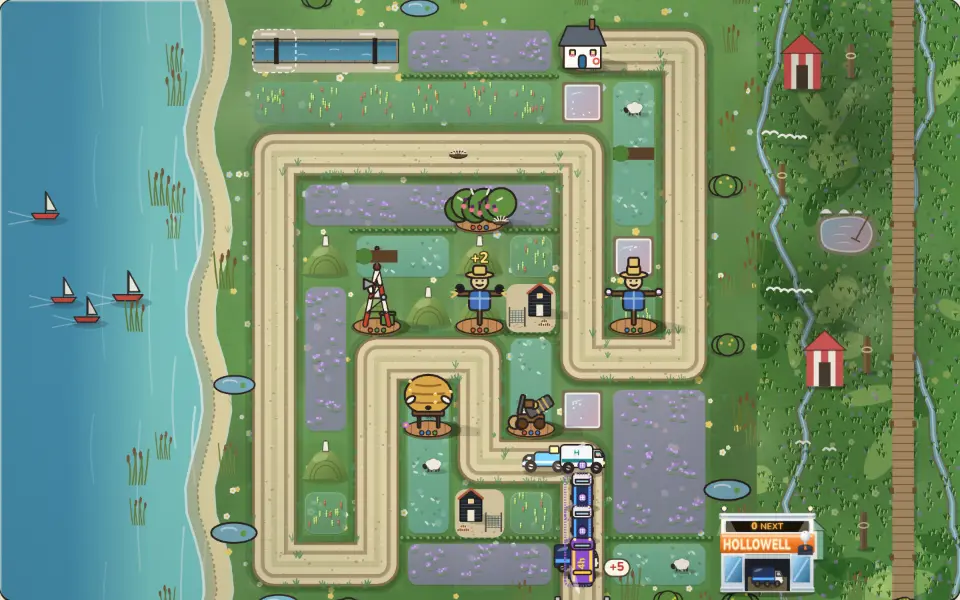
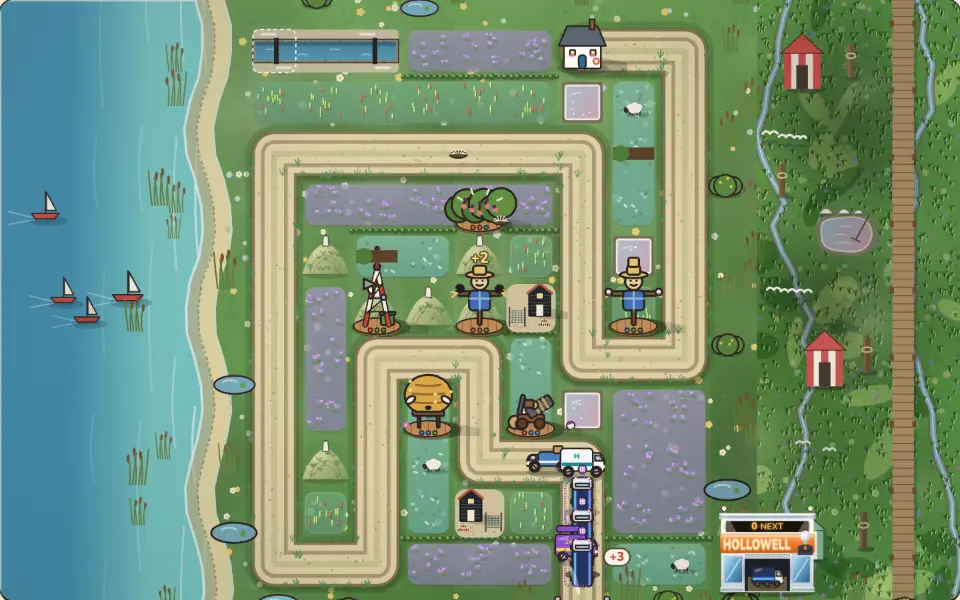
Hedgerow 399 slice 7: each act's high ground its own mound (Highmoor's granite tor, Saltmarsh's marram dune, Rivermead's willow bank, Oakvale's bracken, Shingle Bay's pebble ridge, The Rift's spoil heap, The Ballot's daisy barrow, The Merger's sprinklered berm, Kingsmarket's motte path), the trig pi
Claude-Session: https://claude.ai/code/session_01SimvMN1RHBGCWN7Eo7MzhN

diff --git a/games/hedgerow/src/fieldkitart.ts b/games/hedgerow/src/fieldkitart.ts
@@ -3,7 +3,7 @@
 // watercress, its mill house on the leat and willow-ringed ponds. Brindle's farm kit stays in theme.ts/render.ts.
 
 import { castShadow } from "./sprites";
-import type { BarnLook, BedLook, WaterLook } from "./fieldkit";
+import type { BarnLook, BedLook, KnollDress, WaterLook } from "./fieldkit";
 
 type C = CanvasRenderingContext2D;
 
@@ -1373,6 +1373,124 @@ export function drawKitBarn(ctx: C, x: number, y: number, w: number, look: BarnL
       const a = t * 0.8 + (k / 8) * Math.PI * 2;
       line(ctx, [wx, wy], [wx + Math.cos(a) * wr, wy + Math.sin(a) * wr]);
     }
+  }
+  ctx.restore();
+}
+
+/**
+ * What lies on an act's high ground (drawn clipped to the mound, under the trig pillar): granite on Highmoor's tor,
+ * marram on Saltmarsh's dune, a pollard willow on Rivermead's bank, bracken in Oakvale, a pebble ridge at Shingle
+ * Bay, The Rift's spoil heap, daisies on The Ballot's barrow, a sprinkler on The Merger's berm, a worn path up
+ * Kingsmarket's motte.
+ */
+export function paintKnollDress(ctx: C, x: number, y: number, s: number, dress: KnollDress, seed: number): void {
+  const r01 = rng(seed);
+  const cx = x + s / 2;
+  const on = (): [number, number] => {
+    const t = r01();
+    const u = 0.3 + r01() * 0.5;
+    return [x + s * (0.18 + t * 0.64), y + s * u];
+  };
+  ctx.save();
+  ctx.lineCap = "round";
+  switch (dress) {
+    case "rocks":
+      for (let k = 0; k < 4; k++) {
+        const [px, py] = on();
+        const g = 120 + Math.floor(r01() * 40);
+        ctx.fillStyle = `rgb(${g},${g - 2},${g - 6})`;
+        ctx.strokeStyle = "rgba(60,58,54,0.8)";
+        ctx.lineWidth = Math.max(0.75, s * 0.01);
+        ctx.beginPath();
+        ctx.roundRect(px - s * 0.06, py - s * 0.035, s * 0.12, s * 0.07, s * 0.02);
+        ctx.fill();
+        ctx.stroke();
+      }
+      break;
+    case "marram":
+    case "bracken":
+      for (let k = 0; k < (dress === "marram" ? 14 : 10); k++) {
+        const [px, py] = on();
+        ctx.strokeStyle = dress === "marram" ? "rgba(96,140,70,0.97)" : k % 2 ? "rgba(176,110,50,0.95)" : "rgba(96,140,60,0.95)";
+        ctx.lineWidth = Math.max(1, s * 0.016);
+        for (const dx of [-0.03, 0, 0.03]) {
+          ctx.beginPath();
+          ctx.moveTo(px, py);
+          ctx.quadraticCurveTo(px + s * dx, py - s * 0.04, px + s * dx * 1.8, py - s * 0.07);
+          ctx.stroke();
+        }
+      }
+      break;
+    case "willow": {
+      const tx = cx + s * 0.12, ty = y + s * 0.46;
+      ctx.fillStyle = "#6b5236";
+      ctx.fillRect(tx - s * 0.025, ty - s * 0.1, s * 0.05, s * 0.12);
+      ctx.strokeStyle = "rgba(122,170,80,0.95)";
+      ctx.lineWidth = Math.max(1, s * 0.03);
+      for (let k = 0; k < 7; k++) {
+        const fx = tx + (k - 3) * s * 0.035;
+        ctx.beginPath();
+        ctx.moveTo(tx, ty - s * 0.1);
+        ctx.quadraticCurveTo(fx, ty - s * 0.16, fx, ty);
+        ctx.stroke();
+      }
+      break;
+    }
+    case "pebbles":
+    case "spoil":
+      for (let k = 0; k < 18; k++) {
+        const [px, py] = on();
+        const g = dress === "pebbles" ? 150 + Math.floor(r01() * 70) : 90 + Math.floor(r01() * 40);
+        ctx.fillStyle = dress === "pebbles" ? `rgb(${g},${g - 4},${g - 12})` : `rgb(${g + 10},${g},${g - 14})`;
+        ctx.beginPath();
+        ctx.ellipse(px, py, s * 0.025, s * 0.017, r01() * 3, 0, Math.PI * 2);
+        ctx.fill();
+      }
+      if (dress === "spoil") {
+        ctx.fillStyle = "rgba(200,60,40,0.9)";
+        ctx.fillRect(cx - s * 0.2, y + s * 0.62, s * 0.06, s * 0.015);
+      }
+      break;
+    case "daisies":
+      for (let k = 0; k < 10; k++) {
+        const [px, py] = on();
+        ctx.fillStyle = "rgba(255,255,250,0.97)";
+        ctx.beginPath();
+        ctx.arc(px, py, s * 0.016, 0, Math.PI * 2);
+        ctx.fill();
+        ctx.fillStyle = "rgba(240,196,60,0.97)";
+        ctx.beginPath();
+        ctx.arc(px, py, s * 0.007, 0, Math.PI * 2);
+        ctx.fill();
+      }
+      break;
+    case "sprinkler": {
+      // Mown stripes across the berm and a sprinkler's arc of spray.
+      ctx.fillStyle = "rgba(200,240,160,0.25)";
+      for (let k = 0; k < 4; k++) ctx.fillRect(x, y + s * (0.3 + k * 0.14), s, s * 0.07);
+      const sx = cx - s * 0.18, sy = y + s * 0.62;
+      ctx.fillStyle = "#3a3e42";
+      ctx.fillRect(sx - s * 0.01, sy - s * 0.04, s * 0.02, s * 0.04);
+      ctx.fillStyle = "rgba(220,240,252,0.85)";
+      for (let k = 0; k < 8; k++) {
+        const a = -Math.PI * (0.15 + k * 0.09);
+        ctx.beginPath();
+        ctx.arc(sx + Math.cos(a) * s * 0.1, sy - s * 0.04 + Math.sin(a) * s * 0.07, s * 0.01, 0, Math.PI * 2);
+        ctx.fill();
+      }
+      break;
+    }
+    case "path":
+      // A worn path zig-zagging up to the top.
+      ctx.strokeStyle = "rgba(220,196,140,0.9)";
+      ctx.lineWidth = Math.max(1.5, s * 0.03);
+      ctx.beginPath();
+      ctx.moveTo(x + s * 0.3, y + s * 0.84);
+      ctx.lineTo(x + s * 0.62, y + s * 0.62);
+      ctx.lineTo(x + s * 0.4, y + s * 0.46);
+      ctx.lineTo(cx, y + s * 0.3);
+      ctx.stroke();
+      break;
   }
   ctx.restore();
 }

diff --git a/games/hedgerow/src/fieldkit.ts b/games/hedgerow/src/fieldkit.ts
@@ -52,6 +52,8 @@ export type BarnLook = "barn" | "netshed" | "millhouse" | "fold" | "timberbarn" 
 /** A water plot: a round farm pond, a salt pan, a willow-ringed pond. */
 export type WaterLook = "pond" | "saltpan" | "willowpond" | "peatpool" | "lilypool" | "rockpool" | "gravelpit" | "duckpond" | "lagoon" | "basin";
 
+export type KnollDress = "rocks" | "marram" | "willow" | "bracken" | "pebbles" | "spoil" | "daisies" | "sprinkler" | "path";
+
 export interface FieldKit {
   name: string;
   /** The three looks the fields take turns with (plotlook.ts keeps neighbours apart). */
@@ -60,23 +62,25 @@ export interface FieldKit {
   puddle?: BedLook;
   barn: BarnLook;
   water: WaterLook;
+  /** High ground: the mound's colours (top, foot, contour) and what grows or lies on it; the trig pillar stays. */
+  knoll: { top: string; foot: string; contour: string; dress?: KnollDress };
   /** The farmhouse at the lane's end (sprites.ts's drawFarmhouse). */
   house: "farm" | "fisher" | "thatch" | "longhouse" | "lodge" | "flint" | "bungalow" | "rectory" | "showhome" | "townhouse";
 }
 
-export const BRINDLE_KIT: FieldKit = { name: "farm", beds: ["earth", "stubble", "clover"], puddle: "earth", barn: "barn", water: "pond", house: "farm" };
+export const BRINDLE_KIT: FieldKit = { name: "farm", beds: ["earth", "stubble", "clover"], puddle: "earth", barn: "barn", water: "pond", house: "farm", knoll: { top: "rgb(150,176,92)", foot: "rgb(92,120,56)", contour: "rgba(60,80,30,0.45)" } };
 
 /** Acts by index (0 Brindle .. 9 Kingsmarket) with a kit of their own; the rest keep the farm's. */
 export const FIELD_KITS: Partial<Record<number, FieldKit>> = {
-  1: { name: "hill farm", beds: ["oats", "turnips", "inbye"], barn: "fold", water: "peatpool", house: "longhouse" },
-  2: { name: "saltmarsh", beds: ["samphire", "lavender", "saltgrass"], barn: "netshed", water: "saltpan", house: "fisher" },
-  4: { name: "woodland holding", beds: ["garlic", "litter", "bluebell"], barn: "timberbarn", water: "lilypool", house: "lodge" },
-  5: { name: "shingle croft", beds: ["seakale", "lazybed", "thrift"], barn: "boathut", water: "rockpool", house: "flint" },
-  6: { name: "agribusiness", beds: ["rape", "beet", "fallow"], barn: "dutchbarn", water: "gravelpit", house: "bungalow" },
-  7: { name: "allotments", beds: ["allotment", "sweetpea", "marrow"], barn: "marquee", water: "duckpond", house: "rectory" },
-  8: { name: "agri-tech", beds: ["polytunnel", "lettuce", "turf"], barn: "warehouse", water: "lagoon", house: "showhome" },
-  9: { name: "market garden", beds: ["salad", "rhubarb", "strawberry"], barn: "granary", water: "basin", house: "townhouse" },
-  3: { name: "water meadow", beds: ["meadow", "swathe", "cress"], barn: "millhouse", water: "willowpond", house: "thatch" },
+  1: { name: "hill farm", beds: ["oats", "turnips", "inbye"], barn: "fold", water: "peatpool", house: "longhouse", knoll: { top: "rgb(160,150,120)", foot: "rgb(110,100,84)", contour: "rgba(70,60,46,0.45)", dress: "rocks" } },
+  2: { name: "saltmarsh", beds: ["samphire", "lavender", "saltgrass"], barn: "netshed", water: "saltpan", house: "fisher", knoll: { top: "rgb(222,212,160)", foot: "rgb(132,156,100)", contour: "rgba(110,120,70,0.45)", dress: "marram" } },
+  3: { name: "water meadow", beds: ["meadow", "swathe", "cress"], barn: "millhouse", water: "willowpond", house: "thatch", knoll: { top: "rgb(140,186,96)", foot: "rgb(90,140,64)", contour: "rgba(50,90,40,0.45)", dress: "willow" } },
+  4: { name: "woodland holding", beds: ["garlic", "litter", "bluebell"], barn: "timberbarn", water: "lilypool", house: "lodge", knoll: { top: "rgb(120,150,74)", foot: "rgb(74,100,48)", contour: "rgba(50,70,30,0.45)", dress: "bracken" } },
+  5: { name: "shingle croft", beds: ["seakale", "lazybed", "thrift"], barn: "boathut", water: "rockpool", house: "flint", knoll: { top: "rgb(190,186,174)", foot: "rgb(146,142,132)", contour: "rgba(96,92,84,0.45)", dress: "pebbles" } },
+  6: { name: "agribusiness", beds: ["rape", "beet", "fallow"], barn: "dutchbarn", water: "gravelpit", house: "bungalow", knoll: { top: "rgb(140,124,100)", foot: "rgb(100,88,72)", contour: "rgba(60,50,40,0.45)", dress: "spoil" } },
+  7: { name: "allotments", beds: ["allotment", "sweetpea", "marrow"], barn: "marquee", water: "duckpond", house: "rectory", knoll: { top: "rgb(156,190,100)", foot: "rgb(104,140,64)", contour: "rgba(60,90,36,0.45)", dress: "daisies" } },
+  8: { name: "agri-tech", beds: ["polytunnel", "lettuce", "turf"], barn: "warehouse", water: "lagoon", house: "showhome", knoll: { top: "rgb(120,186,96)", foot: "rgb(84,150,70)", contour: "rgba(40,90,40,0.45)", dress: "sprinkler" } },
+  9: { name: "market garden", beds: ["salad", "rhubarb", "strawberry"], barn: "granary", water: "basin", house: "townhouse", knoll: { top: "rgb(160,170,96)", foot: "rgb(112,124,64)", contour: "rgba(70,80,36,0.45)", dress: "path" } },
 };
 
 export function actIndex(level: Pick<Level, "id">): number {

diff --git a/games/hedgerow/src/theme.ts b/games/hedgerow/src/theme.ts
@@ -6,7 +6,7 @@ import { entrySide, nearSides, type Side } from "./depot";
 import { laneCellsOf, plotKind, sceneryCells, type Level } from "./engine";
 import { fieldAt, plotLooks, sameField, type PlotLook } from "./plotlook";
 import { kitFor, type BedLook } from "./fieldkit";
-import { isKitBed, paintKitBed, paintKitWater } from "./fieldkitart";
+import { isKitBed, paintKitBed, paintKitWater, paintKnollDress } from "./fieldkitart";
 import { paintLandmarks, paintTwistDressing } from "./landmarkart";
 import { DECOR_PIECES, MARGIN_SETS, paintBoardwalk, paintGround, paintPiece, pieceLook, placeMargin, recordMargin, seeded, withLooks, type Look, type Placed, type Rect } from "./margins";
 
@@ -774,13 +774,15 @@ function paintPlots(ctx: CanvasRenderingContext2D, level: Level, L: Layout): voi
         mound.bezierCurveTo(x + s * 0.66, y + s * 0.26, x + s * 0.82, y + s * 0.44, x + s * 0.96, base);
         mound.closePath();
         const g = ctx.createLinearGradient(x + s * 0.2, y + s * 0.26, x + s * 0.8, base);
-        g.addColorStop(0, "rgb(150,176,92)");
-        g.addColorStop(1, "rgb(92,120,56)");
+        // Plan item 399: the act's own mound (a tor, a dune, a spoil heap...), the trig pillar on every one.
+        const knoll = kitFor(level).knoll;
+        g.addColorStop(0, knoll.top);
+        g.addColorStop(1, knoll.foot);
         ctx.fillStyle = g;
         ctx.fill(mound);
         ctx.save();
         ctx.clip(mound);
-        ctx.strokeStyle = "rgba(60,80,30,0.45)";
+        ctx.strokeStyle = knoll.contour;
         ctx.lineWidth = Math.max(1, s * 0.022);
         for (const k of [0.5, 0.66]) {
           ctx.beginPath();
@@ -791,6 +793,7 @@ function paintPlots(ctx: CanvasRenderingContext2D, level: Level, L: Layout): voi
         ctx.beginPath();
         ctx.ellipse(x + s * 0.4, y + s * 0.42, s * 0.16, s * 0.08, -0.4, 0, Math.PI * 2);
         ctx.fill();
+        if (knoll.dress) paintKnollDress(ctx, x, y, s, knoll.dress, c * 131 + r * 71 + level.id * 7);
         ctx.restore();
         // the trig pillar
         ctx.fillStyle = "rgb(244,238,224)";

diff --git a/tests/hedgerow-fieldkit.test.ts b/tests/hedgerow-fieldkit.test.ts
@@ -7,12 +7,14 @@ import { plotLooks } from "../games/hedgerow/src/plotlook";
 const kits = [BRINDLE_KIT, ...Object.values(FIELD_KITS).map((k) => k!)];
 
 describe("field kits", () => {
-  it("share no building, bed or water look between acts' kits", () => {
+  it("share no building, bed, water, house or knoll look between acts' kits", () => {
     for (let i = 0; i < kits.length; i++)
       for (let j = i + 1; j < kits.length; j++) {
         const [a, b] = [kits[i]!, kits[j]!];
         expect(a.barn, `${a.name} / ${b.name}`).not.toBe(b.barn);
         expect(a.water, `${a.name} / ${b.name}`).not.toBe(b.water);
+        expect(a.house, `${a.name} / ${b.name}`).not.toBe(b.house);
+        expect(a.knoll.top, `${a.name} / ${b.name}`).not.toBe(b.knoll.top);
         for (const bed of a.beds) expect(b.beds, `${a.name} / ${b.name}`).not.toContain(bed);
       }
   });
